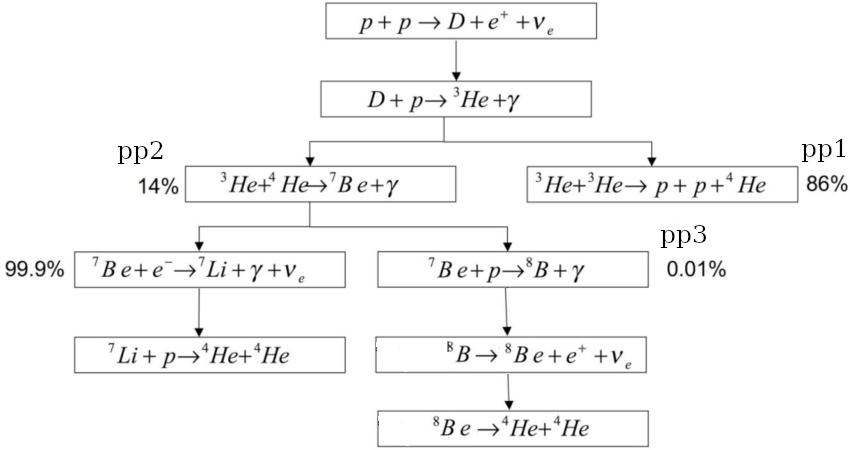
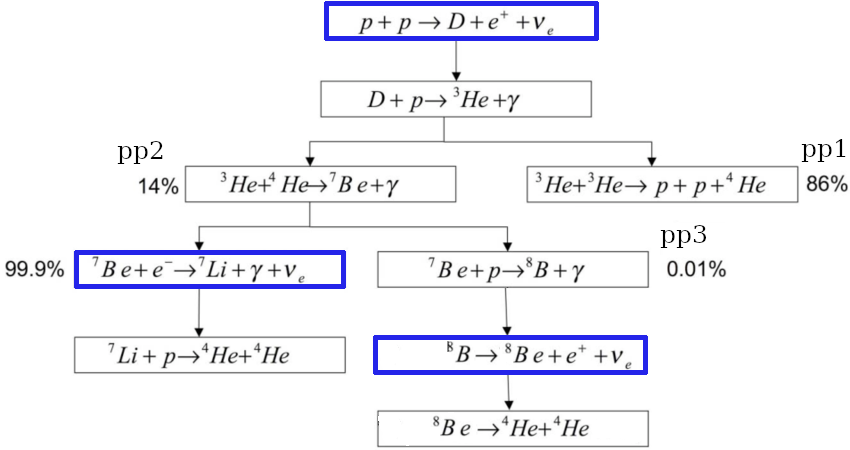
pp chain fig

Changed region(s): [[0.0612, 0.5289, 0.4282, 0.6533], [0.4282, 0.7467, 0.7647, 0.84], [0.3671, 0.0, 0.7035, 0.0933]]

diff --git a/html-content/notes-lecture-nuclear-cycles.html b/html-content/notes-lecture-nuclear-cycles.html
@@ -1,7 +1,7 @@
 <!DOCTYPE html>
 <html lang="en">
 <head>
-<!-- 2025-02-27 Thu 09:36 -->
+<!-- 2025-02-27 Thu 09:43 -->
 <meta charset="utf-8" />
 <meta name="viewport" content="width=device-width, initial-scale=1" />
 <title>400A - Nuclear cycles</title>
@@ -128,7 +128,7 @@ derivation of the main results we obtained for a generic charged
 particle reaction \(X(a,b)Y\) by writing the cross section for the
 reaction as:
 </p>
-<div class="latex" id="orge60406c">
+<div class="latex" id="org70a0a76">
 \begin{equation}
 \sigma = \pi \lambda_{X}^{2} \times \{ \mathrm{Probability\ of\ Tunneling}\} \times \{\mathrm{Probability\ of\ C^{\star}\ decay\ in\ Y+b}\}\ \ ,
 \end{equation}
@@ -141,7 +141,7 @@ terms in curly brackets appears because of Bohr's approximation (so
 that the two probabilities are independent of each other). Since \(\lambda_{X} =
 h/p \propto h/E^{1/2}\) (for non-relativistic ions) \(\Rightarrow \lambda_{X}^{2 }\propto E^{-1}\) and thus:
 </p>
-<div class="latex" id="org45bd2f3">
+<div class="latex" id="orgae93922">
 \begin{equation}\label{eq:heuristic_summary}
 \sigma \equiv \sigma(E)\propto \frac{1}{E}\exp\left(\frac{-b}{\sqrt{E}}\right)S(E) \ \ ,
 \end{equation}
@@ -177,9 +177,10 @@ astrophysical factor \(S(E)\)) or not.
 We already know from the \(B/A\) vs. \(A\) curve that the most energy is
 released by hydrogen burning into helium (because \(\alpha\) particles have
 such a high binding energy), and using conservation of charge and
-leptonic number we have already written the overall reaction as:
+electron leptonic number we have already written the overall reaction
+as:
 </p>
-<div class="latex" id="org918088d">
+<div class="latex" id="orgfd11963">
 \begin{equation}\label{eq:overall_reaction}
 4^{1}\mathrm{H}\rightarrow^{4}\mathrm{He}+2e^{+} + 2\nu_{e} \ \ .
 \end{equation}
@@ -253,10 +254,10 @@ stars, like the Sun:
 </p>
 
 
-<figure id="orgf035ed5">
+<figure id="orgfc15184">
 <img src="./images/pp_cycle.png" alt="pp_cycle.png" width="100%">
 
-<figcaption><span class="figure-number">Figure 1: </span>Schematic representation of the pp chain. The right branch is the so called pp1, the rarer left branch is the so called pp2, which further has a rarer pp3 branch ending up with the formation and decay of a \(^{8}\mathrm{Be}\) nucleus.</figcaption>
+<figcaption><span class="figure-number">Figure 1: </span>Schematic representation of the pp chain. Blue boxes highlight the weak reactions producing \(\nu_{e}\). The right branch is the so called pp1, the rarer left branch is the so called pp2, which further has a rarer pp3 branch ending up with the formation and decay of a \(^{8}\mathrm{Be}\) nucleus.</figcaption>
 </figure>
 
 
@@ -325,7 +326,7 @@ catalysts for the reactions.
 </p>
 
 
-<figure id="orgf2fbba5">
+<figure id="org28ce321">
 <img src="./images/CN-NO.png" alt="CN-NO.png">
 
 <figcaption><span class="figure-number">Figure 2: </span>Schematic representation of the CN-NO bi cycle.</figcaption>
@@ -410,7 +411,7 @@ the CNO cycle takes over as dominant energy production mechanism.
 </p>
 
 
-<figure id="orgf553364">
+<figure id="orgb0a14e9">
 <img src="./images/pp_vs_CNO.png" alt="pp_vs_CNO.png" width="75%">
 
 <figcaption><span class="figure-number">Figure 3: </span>\(\varepsilon_\mathrm{nuc}/\rho\) as a function of central temperature \(T_{c}\) (bottom axis) or initial mass \(M\) (top axis) for the pp chain (blue) and CNO cycle (orange) based on a grid of MESA models at the onset of hydrogen core burning once equilibrium (\(L\simeq L_\mathrm{nuc}\)) is established. Dashed lines are linear fits. Modified from a figure by R. Townsend.</figcaption>
@@ -486,7 +487,7 @@ to meet in the same place within their nuclear radii because of
 thermal motion is negligibly small). The \(3\alpha\rightarrow^{12}\mathrm{C}\) compound
 reaction is actually:
 </p>
-<div class="latex" id="org47b8783">
+<div class="latex" id="org017c6ab">
 \begin{equation}
 \alpha+\alpha\leftrightarrow^{8}\mathrm{Be}+\gamma \\
 ^{8}\mathrm{Be}+\alpha\rightarrow^{12}\mathrm{C^{\star}}\rightarrow^{12}\mathrm{C}+\gamma
@@ -601,7 +602,7 @@ positive \(Q\) values (thus exo-energetic and of interest for the star
 to sustain itself):
 </p>
 
-<div class="latex" id="org3f53d26">
+<div class="latex" id="org6b6ac14">
 <p>
 \(^{12}\mathrm{C}+^{12}\mathrm{C} \rightarrow^{24}\mathrm{Mg}+\gamma\) (Q&sim;13.93MeV)<br>
 \(^{12}\mathrm{C}+^{12}\mathrm{C} \rightarrow^{20}\mathrm{Ne}+\alpha\) (Q&sim;4.616MeV)<br>
@@ -697,7 +698,7 @@ with positive \(Q\) value that produce sulfur and silicon primarily (two
 other \(\alpha\) nuclei!):
 </p>
 
-<div class="latex" id="orgdb478ff">
+<div class="latex" id="org51a9b28">
 <p>
 \(^{16}\mathrm{O}+^{16}\mathrm{O} \rightarrow^{32}\mathrm{S}+\gamma\) (Q&sim;16.53MeV)<br>
 \(^{16}\mathrm{O}+^{16}\mathrm{O} \rightarrow^{28}\mathrm{Si}+\alpha\) (Q&sim;9.593MeV)<br>
@@ -754,7 +755,7 @@ photodisintegrated and re-created at very high and nearly canceling
 rates:
 </p>
 
-<div class="latex" id="orgc9eb159">
+<div class="latex" id="orge95a5b1">
 \begin{equation}
 \gamma + ^{A}Z \rightarrow ^{A'}Z' +{p,n,\alpha}
 \end{equation}
@@ -768,7 +769,7 @@ elements to form heavier "iron group nuclei" (which are also
 photodisintegrated and recreated constantly):
 </p>
 
-<div class="latex" id="org63377a7">
+<div class="latex" id="org848dfeb">
 \begin{equation}
 \{p, n,\alpha\} + \{ ^{A}Z,^{A'}Z' \} \rightarrow \{ \mathrm{Fe \ group \ nuclei} \} +
 \dots
@@ -787,7 +788,7 @@ quickly thermalize in the plasma see <a href="https://ui.adsabs.harvard.edu/abs/
 
 
 
-<figure id="org629573b">
+<figure id="org3ae18f6">
 <img src="./images/QSE.png" alt="QSE.png" width="100%">
 
 <figcaption><span class="figure-number">Figure 4: </span>Schematic representation of quasi statistical equilibrium on the nuclear chart. The two filled circle represent the Si (red) and Fe (blue) groups. The abundance of nuclei within each group reach NSE. The links connecting specific isotopes within each group represent the few reactions out of equilibrium, which progressively result in the depletion of the number of isotopes in the Si group in favor of those in the Fe group.</figcaption>
@@ -847,7 +848,7 @@ lecture</a>.
 <h2 id="orgbc735da"><a href="#orgbc735da">Summary of energy scaling</a></h2>
 <div class="outline-text-2" id="text-orgbc735da">
 
-<figure id="org3b1d21c">
+<figure id="orgeca4de9">
 <img src="./images/Nuclear_energy_generation.png" alt="Nuclear_energy_generation.png" width="100%">
 
 <figcaption><span class="figure-number">Figure 5: </span>\(\varepsilon_\mathrm{nuc} \equiv \varepsilon_\mathrm{nuc}(T)\) dependence on a log-log plot for the burning cycles that cover &ge;99% of the stellar lifetime (H and He core burning). From <a href="https://commons.wikimedia.org/wiki/File:Nuclear_energy_generation.svg">wikipedia</a>.</figcaption>
@@ -871,7 +872,7 @@ allowing for the so called "onion layer" structure of stars:
 </p>
 
 
-<figure id="orgd4b49f2">
+<figure id="org6f9f9d8">
 <img src="./images/onion.png" alt="onion.png" width="100%">
 
 <figcaption><span class="figure-number">Figure 6: </span>Layer structure for an initially \(15M_{☉}\) star at the end of its nuclear burning lifetime in mass coordinate from <a href="https://www.as.arizona.edu/%5Csimmrenzo/materials/Thesis/Renzo_MSc_thesis.pdf">Renzo 2015</a>. Note the final total mass is <i>not</i> 15M<sub>☉</sub> because stars this massive lose mass through radiatively driven winds.</figcaption>
@@ -948,7 +949,7 @@ consumption of a given fuel take in a star, that is the nuclear
 timescale for a given fuel:
 </p>
 
-<div class="latex" id="orgcae9d4d">
+<div class="latex" id="org9b2f4a0">
 \begin{equation}
 \tau_\mathrm{nuc} = \varphi f_\mathrm{burn} \frac{Mc^{2}}{L_{}} \ \ .
 \end{equation}
@@ -1008,7 +1009,7 @@ massive stars, silicon &rarr; iron only lasts order of <i>days</i>.
 </p>
 
 
-<figure id="org84978e8">
+<figure id="org78fcaa2">
 <img src="./images/durations.png" alt="durations.png" width="100%">
 
 <figcaption><span class="figure-number">Figure 7: </span>example of durations of burning phases for a few massive stars from <a href="https://www.as.arizona.edu/%5Csimmrenzo/materials/Thesis/Renzo_MSc_thesis.pdf">Renzo 2015</a>.</figcaption>
